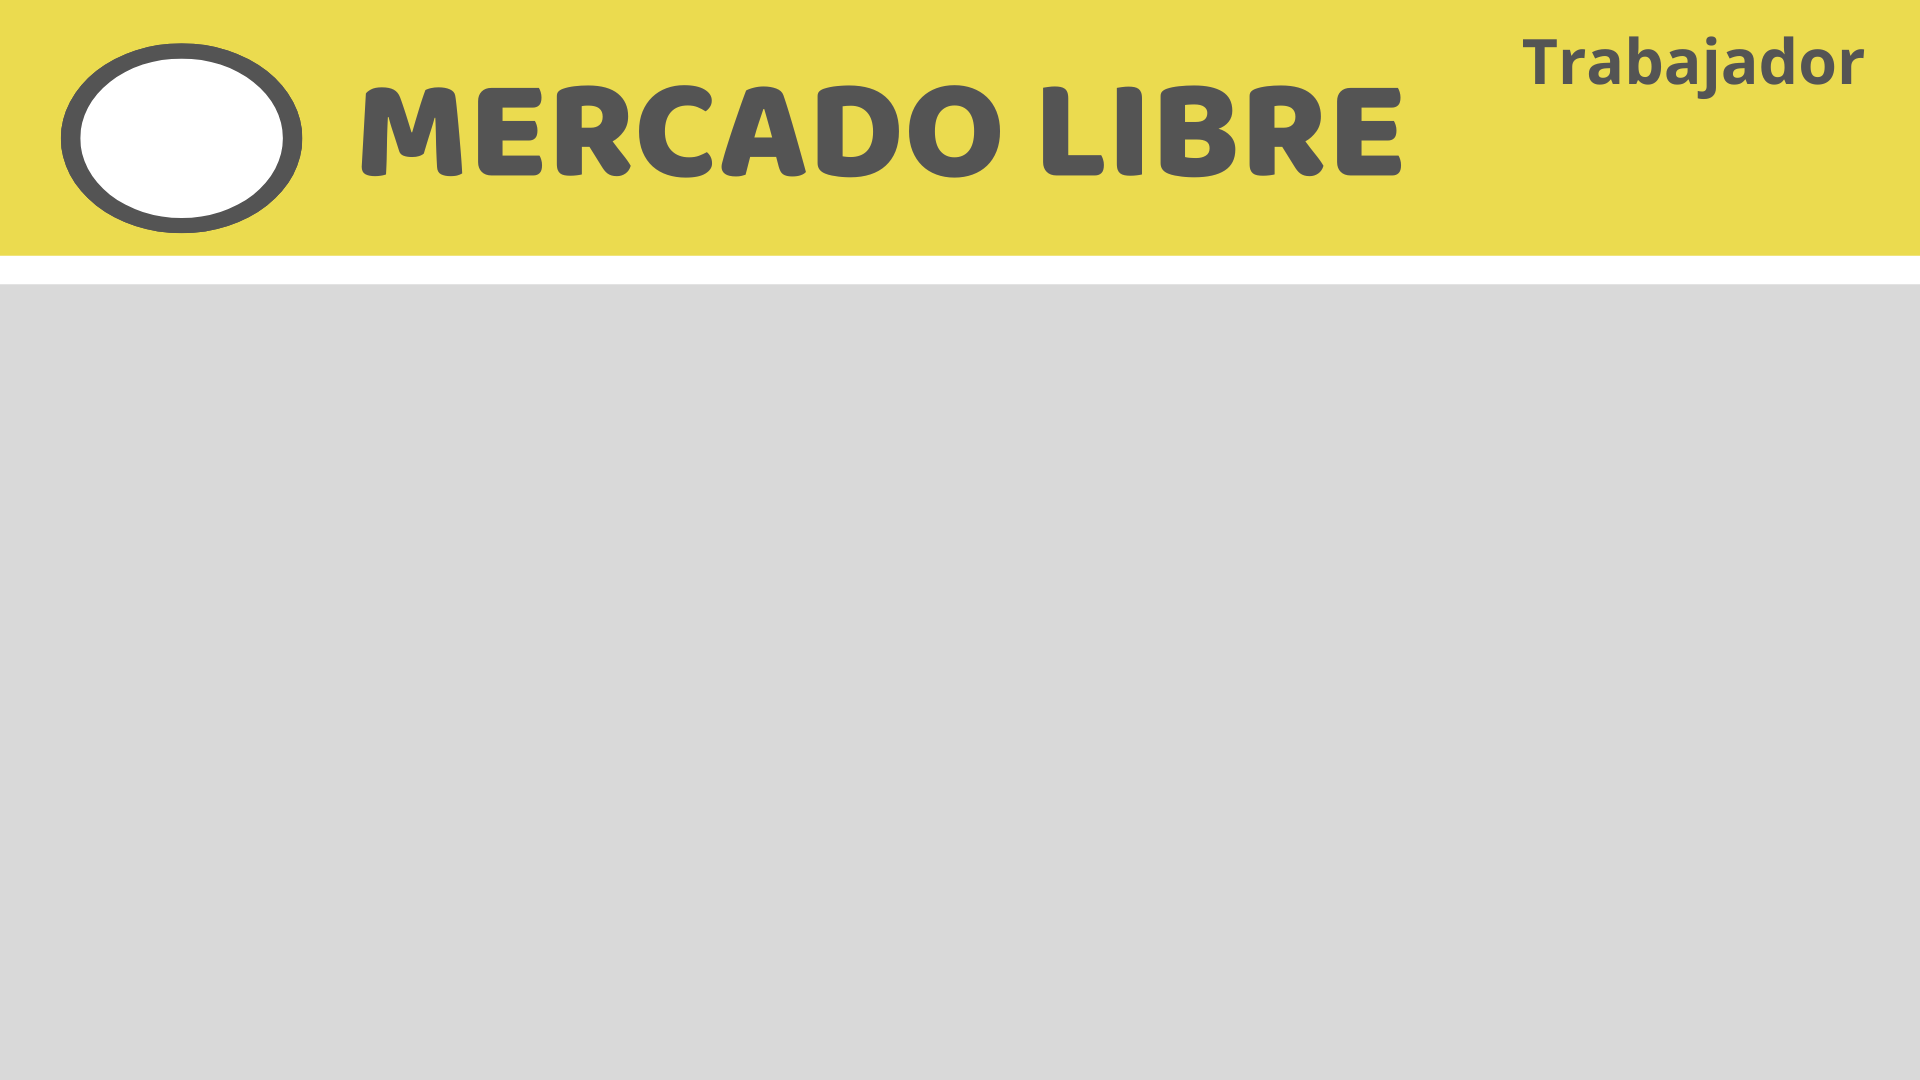
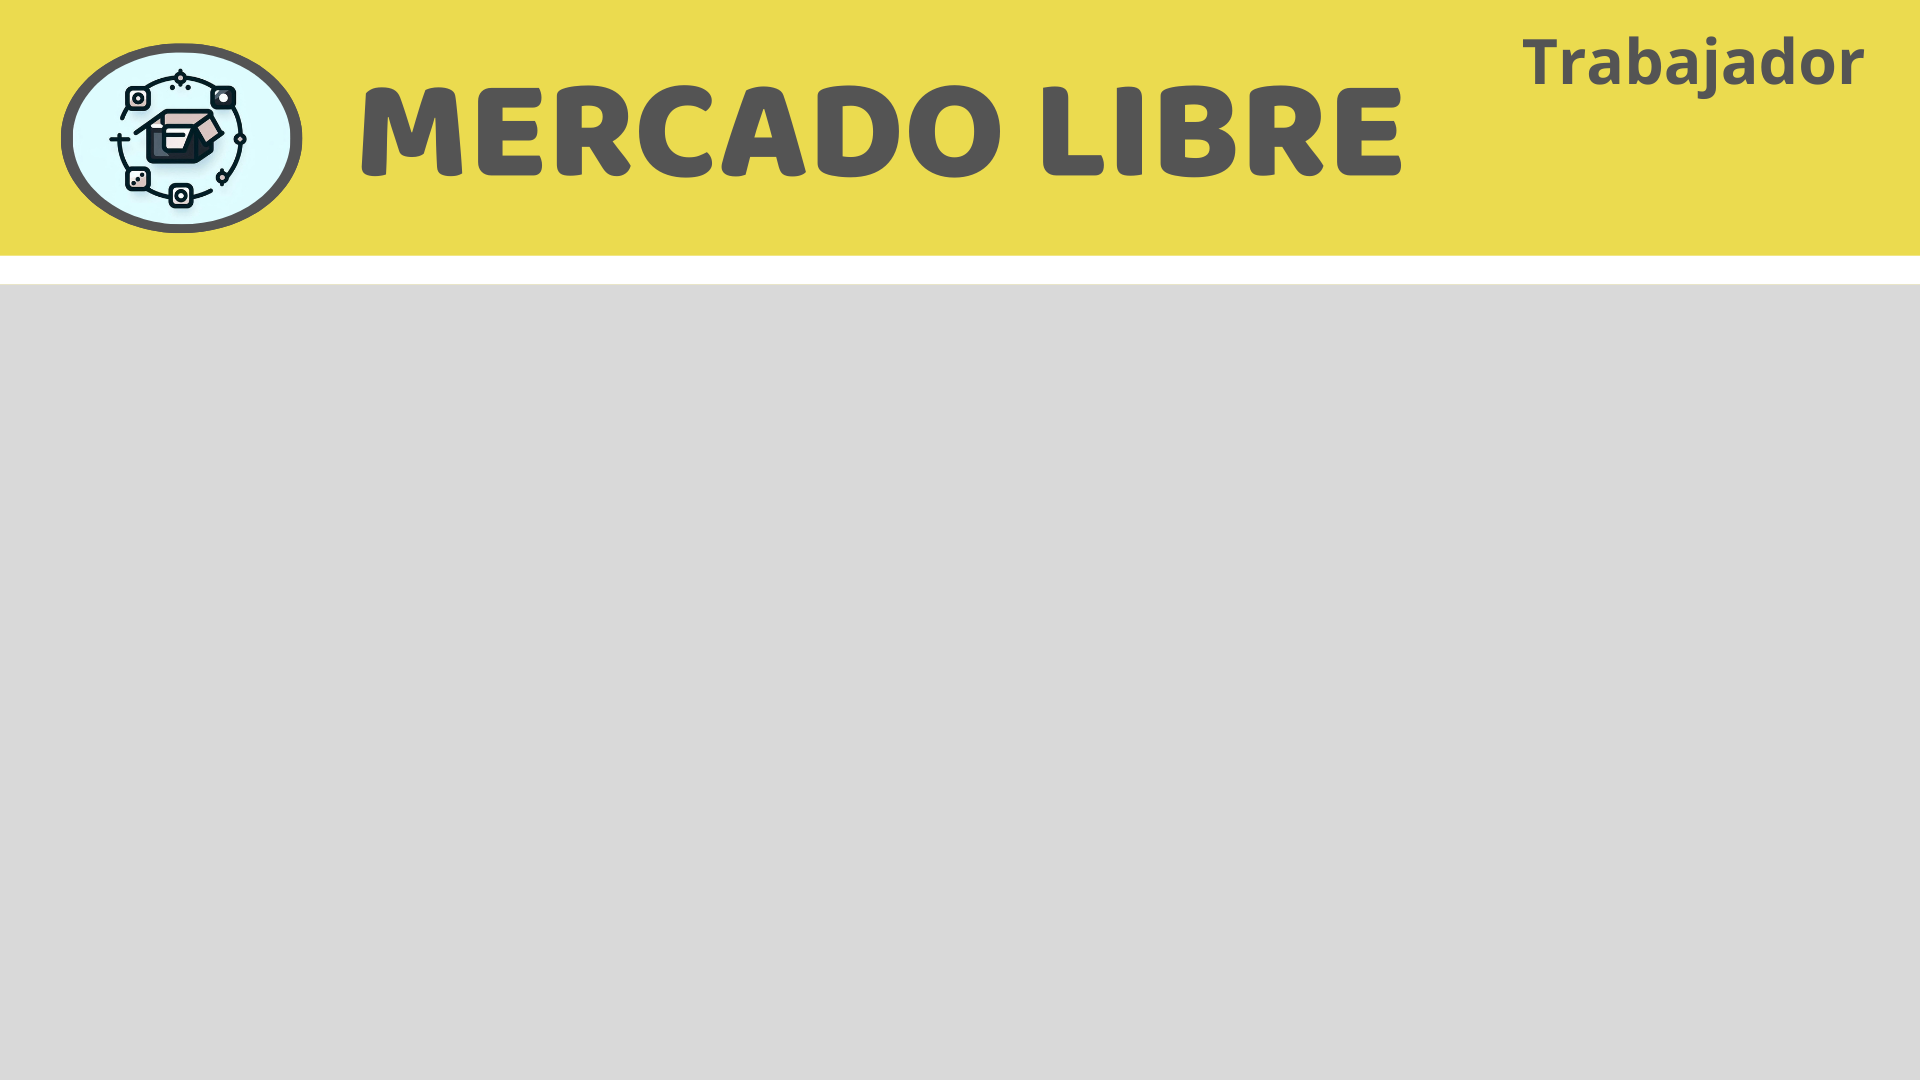
panel trabajador
diseño

Changed region(s): [[0.0312, 0.0306, 0.1562, 0.2139]]

diff --git a/MercadoLibreTrabajador/src/co/edu/unbosque/view/PanelTrabajador.java b/MercadoLibreTrabajador/src/co/edu/unbosque/view/PanelTrabajador.java
@@ -1,5 +1,7 @@
 package co.edu.unbosque.view;
 
+import java.awt.Color;
+import java.awt.Font;
 import java.awt.Image;
 import java.awt.image.BufferedImage;
 import java.io.File;
@@ -7,30 +9,127 @@ import java.io.IOException;
 
 import javax.imageio.ImageIO;
 import javax.swing.ImageIcon;
+import javax.swing.JButton;
 import javax.swing.JLabel;
 import javax.swing.JPanel;
 
 public class PanelTrabajador extends JPanel {
 
 	private JLabel fondo;
+	private JButton btnAnadir;
+	private JButton btnModificarProducto;
+	private JButton btnEliminarProducto;
+	private JButton btnModificarUsuario;
+	private JButton btnSalir;
 
 	public PanelTrabajador() throws IOException {
-		
+
 		setBounds(0, 0, 1290, 750);
 		setLayout(null);
 
 		fondo = new JLabel();
-		BufferedImage fd = ImageIO.read(new File("src/co/edu/unbosque/view/FondoT.png"));
+		BufferedImage fd = ImageIO.read(new File("src/co/edu/unbosque/view/FondoPT.png"));
 		ImageIcon imagenFondo = new ImageIcon(fd);
 		Image fdRedim = fd.getScaledInstance(1290, 750, Image.SCALE_SMOOTH);
 		fondo.setIcon(new ImageIcon(fdRedim));
 		fondo.setBounds(0, 0, 1290, 750);
-		
-		
-		
 
-		add(fondo); 
+		btnAnadir = new JButton();
+		btnAnadir.setBounds(148, 254, 170, 170);
+		btnAnadir.setFocusable(false);
+		btnAnadir.setBackground(new Color(0, 0, 0));
+		btnAnadir.setContentAreaFilled(false);
+		btnAnadir.setOpaque(false);
+		btnAnadir.setVisible(true);
+		add(btnAnadir);
 
+		btnModificarProducto = new JButton();
+		btnModificarProducto.setBounds(153, 506, 170, 170);
+		btnModificarProducto.setFocusable(false);
+		btnModificarProducto.setBackground(new Color(0, 0, 0, 0));
+		btnModificarProducto.setContentAreaFilled(false);
+		btnModificarProducto.setOpaque(false);
+		btnModificarProducto.setVisible(true);
+		add(btnModificarProducto);
+
+		btnEliminarProducto = new JButton();
+		btnEliminarProducto.setBounds(477, 254, 170, 170);
+		btnEliminarProducto.setFocusable(false);
+		btnEliminarProducto.setBackground(new Color(0, 0, 0));
+		btnEliminarProducto.setContentAreaFilled(false);
+		btnEliminarProducto.setOpaque(false);
+		btnEliminarProducto.setVisible(true);
+		add(btnEliminarProducto);
+
+		btnModificarUsuario = new JButton();
+		btnModificarUsuario.setBounds(478, 509, 170, 170);
+		btnModificarUsuario.setFocusable(false);
+		btnModificarUsuario.setBackground(new Color(0, 0, 0));
+		btnModificarUsuario.setContentAreaFilled(false);
+		btnModificarUsuario.setOpaque(false);
+		btnModificarUsuario.setVisible(true);
+		add(btnModificarUsuario);
+
+		btnSalir = new JButton();
+		btnSalir.setBounds(880, 500, 190, 120);
+		btnSalir.setText("Salir");
+		btnSalir.setFocusable(false);
+		btnSalir.setBackground(Color.WHITE);
+		btnSalir.setForeground(Color.black);
+		btnSalir.setBackground(new Color(246, 86, 86));
+		btnSalir.setFont(new Font("Baloo", Font.BOLD, 35));
+		add(btnSalir);
+
+		add(fondo);
+
+	}
+
+	public JLabel getFondo() {
+		return fondo;
+	}
+
+	public void setFondo(JLabel fondo) {
+		this.fondo = fondo;
+	}
+
+	public JButton getBtnAnadir() {
+		return btnAnadir;
+	}
+
+	public void setBtnAnadir(JButton btnAnadir) {
+		this.btnAnadir = btnAnadir;
+	}
+
+	public JButton getBtnModificarProducto() {
+		return btnModificarProducto;
+	}
+
+	public void setBtnModificarProducto(JButton btnModificarProducto) {
+		this.btnModificarProducto = btnModificarProducto;
+	}
+
+	public JButton getBtnEliminarProducto() {
+		return btnEliminarProducto;
+	}
+
+	public void setBtnEliminarProducto(JButton btnEliminarProducto) {
+		this.btnEliminarProducto = btnEliminarProducto;
+	}
+
+	public JButton getBtnModificarUsuario() {
+		return btnModificarUsuario;
+	}
+
+	public void setBtnModificarUsuario(JButton btnModificarUsuario) {
+		this.btnModificarUsuario = btnModificarUsuario;
+	}
+
+	public JButton getBtnSalir() {
+		return btnSalir;
+	}
+
+	public void setBtnSalir(JButton btnSalir) {
+		this.btnSalir = btnSalir;
 	}
 
 }

diff --git a/MercadoLibreTrabajador/src/co/edu/unbosque/controller/Controller.java b/MercadoLibreTrabajador/src/co/edu/unbosque/controller/Controller.java
@@ -49,6 +49,16 @@ public class Controller implements ActionListener {
 		vf.getVpt().getPcu().getBtnIngresar().setActionCommand("btnIngresarC");
 		vf.getVpt().getPcu().getBtnVolver().addActionListener(this);
 		vf.getVpt().getPcu().getBtnVolver().setActionCommand("btnVolverC");
+		vf.getVpt().getPt().getBtnAnadir().addActionListener(this);
+		vf.getVpt().getPt().getBtnAnadir().setActionCommand("btnAnadir");
+		vf.getVpt().getPt().getBtnModificarProducto().addActionListener(this);
+		vf.getVpt().getPt().getBtnModificarProducto().setActionCommand("btnModificarP");
+		vf.getVpt().getPt().getBtnEliminarProducto().addActionListener(this);
+		vf.getVpt().getPt().getBtnEliminarProducto().setActionCommand("btnEliminarP");
+		vf.getVpt().getPt().getBtnModificarUsuario().addActionListener(this);
+		vf.getVpt().getPt().getBtnModificarUsuario().setActionCommand("btnModificarU");
+		vf.getVpt().getPt().getBtnSalir().addActionListener(this);
+		vf.getVpt().getPt().getBtnSalir().setActionCommand("btnSalirT");
 
 	}
 
@@ -146,6 +156,29 @@ public class Controller implements ActionListener {
 			vf.getVpt().getPcu().setVisible(false);
 			vf.getVpt().getPpt().setVisible(true);
 			break;
+		}
+		case "btnAnadir": {
+
+			break;
+		}
+		case "btnModificarP": {
+
+			break;
+		}
+		case "btnEliminarP": {
+
+			break;
+		}
+		case "btnModificarU": {
+
+			break;
+		}
+		case "btnSalirT": {
+
+			vf.getVpt().getPt().setVisible(false);
+			vf.getVpt().getPpt().setVisible(true);
+			break;
+
 		}
 
 		}
